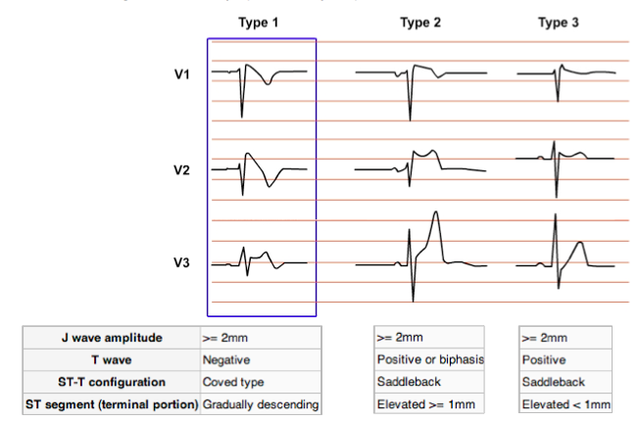
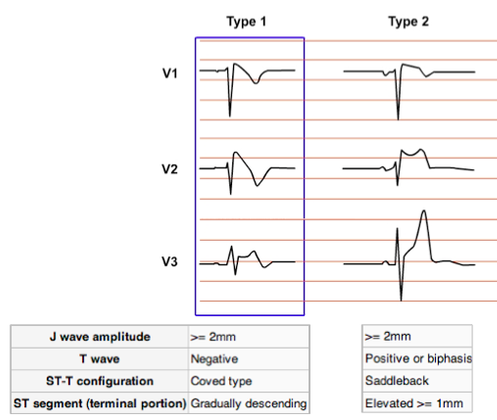
brugada update

Changed region(s): [[0.0, 0.031, 1.0, 0.9905], [0.9658, 0.7119, 1.0, 0.7429]]

diff --git a/cards/brugada/card.md b/cards/brugada/card.md
@@ -5,6 +5,7 @@ authors:
     - Michelle Lin, MD
 created: 2011/05/06
 updates: 
+    - 2018/08/02
     - 2017/05/10
 categories:
     - Cardiovascular
@@ -20,11 +21,11 @@ categories:
 
 ## ECG findings
 
-- 3 types
+- 2 types
 - Type 1 – Most specific for Brugada Syndrome
 - Highest risk for symptoms of syncope and sudden death
 
-![Examples of type 1, type 2, and type 3 Brugada ECG patterns](image-1.png)
+![Examples of type 1, and type 2 Brugada ECG patterns](image-1.png)
 
 ## Differential diagnosis
 
